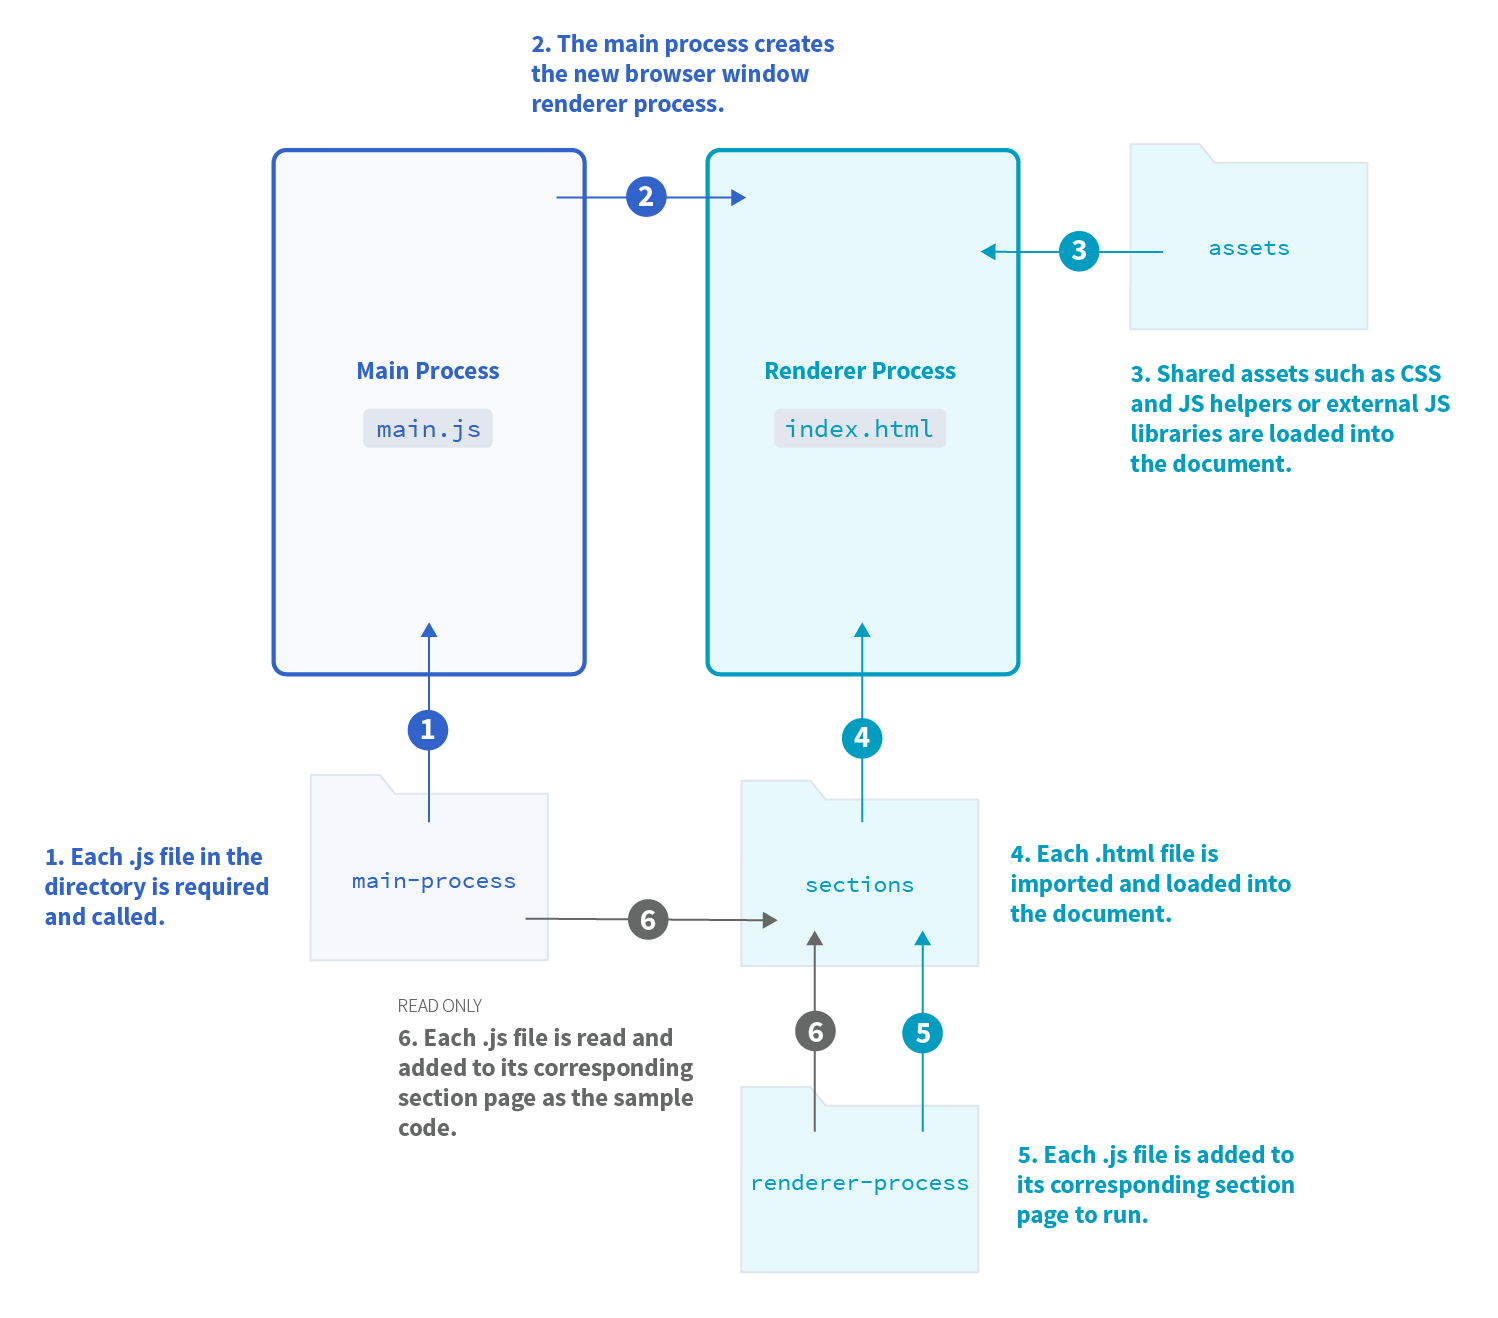
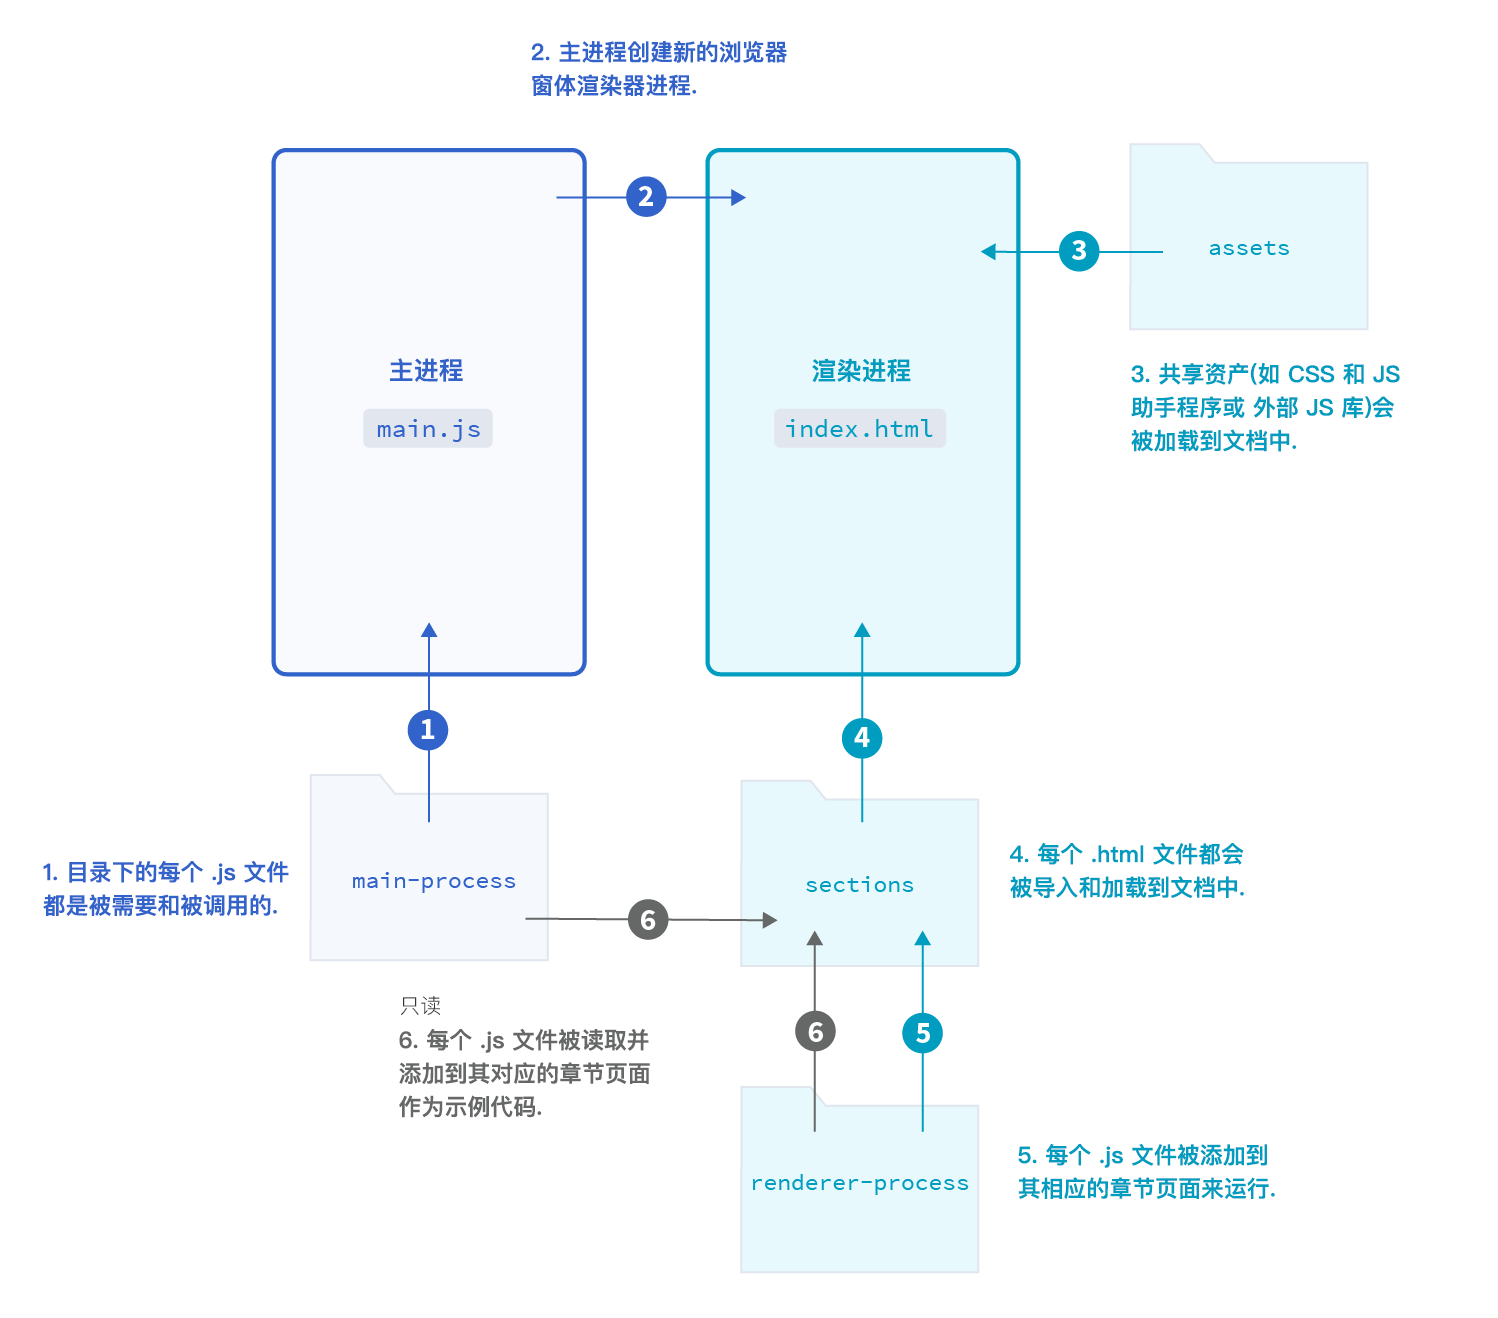
翻译部分文档
新增
导入 electron-api-demos 的 1.2.0 版本.
新增 CHANGELOG.md 文件用于记录更新内容.

更新
翻译 README.md 文件
翻译 docs.md 文件
翻译 assets\img\diagram.png 文件
翻译 assets\img\ui-terminology.png 文件

diff --git a/docs.md b/docs.md
@@ -1,112 +1,112 @@
-# Documentation
+# 文档
 
-This app has been developed to be a lightweight Electron app, demonstrating how to create a basic Electron app with a few exceptions that have been made for the sake of code organization in regards to the demos themselves.
+这个应用程序已被开发为一个轻量级 Electron 应用程序, 用一些用于演示本身相关的代码组织的例外来演示了如何创建一个基本的 Electron 应用程序.
 
-All of the sample code shown in the app _is the actual code used in the app_. These JavaScript bits have been pulled out into their own file and organized by process (main or renderer) and then by section (communication, menus, native UI, media, system, windows).
+应用程序中显示的所有示例代码都是 _应用程序中实际的使用代码_. 这些 JavaScript 块已被迁出到自己单独的文件中, 并按进程 (主进程 或 渲染器) 然后按章节 (通信，菜单，本地UI，媒体，系统，窗口) 进行组织.
 
-This was done for maintainability—code updates only have to be made in one place—and organization—it's easy to find the sample code you're looking for.
+为了便于维护, 只在一个地方和组织中进行代码更新. 这样可以很容易找到你要找的示例代码。
 
-All of the pages (or views) are separate `.html` files which are appended onto the `index.html` using [HTML imports](http://www.html5rocks.com/en/tutorials/webcomponents/imports/).
+所有的页面（或视图）都是单独的 `.html` 文件，它们使用 [HTML imports](http://www.html5rocks.com/en/tutorials/webcomponents/imports/) 的方式附加到 `index.html` 上。
 
-Are you looking to add a demo? Jump to the [add a new demo section](#add-a-section-or-demo).
+你想要增加一个示例吗? 跳转到 [增加一个新示例](#添加一个章节或示例) 章节.
 
-## Folder Structure
+## 文件夹结构
 
-![Diagram of App Structure and Operations](/assets/img/diagram.png)
+![应用程序结构和操作图](/assets/img/diagram.png)
 
 #### `assets`
-This directory contains assets for the app itself: CSS, fonts, images and shared JavaScript libraries or helpers.
+此个目录包含应用自身的资产: CSS, fonts, images 和 共享的 JavaScript 库或其他帮手等.
 
 #### `main-process`
-This directory contains sub folders for each demo section that requires JavaScript in the main process. This structure is mirrored in the `renderer-process` directory.
+此目录包含在主进程中需要使用 JavaScript 的每个示例部分的子文件夹. 这个结构镜像在 `renderer-process` 目录中.
 
-The `main.js` file, located in the root, takes each `.js` file in these directories and executes them.
+`main.js`文件位于根目录下, 每个 `.js` 文件都放在这些目录中执行.
 
 #### `renderer-process`
-This directory contains sub folders for each demo section that requires JavaScript in the renderer process. This structure is mirrored in the `main-process` directory.
+此目录包含在渲染器进程中需要使用 JavaScript 的每个示例部分的子文件夹. 这个结构镜像在`main-process`目录中.
 
-Each of the HTML page views requires the corresponding renderer-process `.js` files that it needs for its demo.
+每个 HTML 页面视图都需要其演示所需的相应的渲染器进程 `.js` 文件.
 
-Each page view reads the content of its relevant main and renderer process files and adds them to the page for the snippets.
+每个页面视图读取其相关主进程和渲染器进程文件的内容, 并将它们添加到代码段的页面.
 
 #### `sections`
-This directory contains sub folders for each demo section. These subfolders contain the HTML files for each of the demo pages. Each of these files is appended to `index.html`, located at the root.
+此目录包含每个示例部分的子文件夹. 这些子文件夹包含每个示例页面的 HTML 文件. 这些文件每个都附加到位于根目录的 `index.html`.
 
 #### `index.html`
-This is the main view in the app. It contains the sidebar with navigation and uses [HTML imports](http://www.html5rocks.com/en/tutorials/webcomponents/imports/) to append each section HTML page to the `body`.
+这是应用程序中的主视图. 它包含带导航的边栏, 并使用 [HTML imports](http://www.html5rocks.com/en/tutorials/webcomponents/imports/) 将每个部分的 HTML 页面附加到 `body`.
 
 #### `main.js`
-This file contains the lifecycle instructions for the app like how to start and quit, it is the app's main process. It grabs every `.js` file in the `main-process` directory and executes.
+此文件包含应用程序的生命周期说明, 比如如何开始和退出, 这是应用程序的主要过程. 它捕获 `main-process` 目录中的每个 `.js` 文件并执行.
 
-The `package.json` sets this file as the `main` file.
+在 `package.json` 中将这个文件设置为 `main` 文件.
 
 #### `package.json`
-This file is required when using `npm` and Electron.js. It contains details on the app: the author, dependencies, repository and points to `main.js` as the application's main process file.
+使用 `npm` 和 Electron.js 时需要此文件. 它包含应用程序的详细信息: 作者, 依赖项, 存储库, 并指向 `main.js` 作为应用程序的主进程文件.
 
 #### Docs
-The files: `CODE_OF_CONDUCT`, `README`, `docs` and `CONTRIBUTING` files make up the documentation for the project.
+文件: `CODE_OF_CONDUCT`, `README`, `docs` 和 `CONTRIBUTING` 文件构成了项目的文档.
 
-## UI Terminology
+## UI 术语
 
-![UI Terminology](/assets/img/ui-terminology.png)
+![UI 术语](/assets/img/ui-terminology.png)
 
-## CSS Naming Convention
+## CSS 命名约定
 
-Nothing too strict and used more as a guide:
+没有太严格的和更多的使用指导:
 
-- Styling elements directly should be avoided, but ok in some cases. Like `<p>` or `<code>`.
-- Elements that belong together are prefixed with their parent class. `.section`, `.section-header`, `.section-icon`.
-- States use `is-` prefix
-- Utilities use `u-` prefix
+- 应该避免直接使用样式元素, 但在某些情况下可以. 比如 `<p>` 或 `<code>`.
+- 属于一起的元素以其父类为前缀. `.section`, `.section-header`, `.section-icon`.
+- 状态使用 `is-` 前缀.
+- 实用程序使用 `u-` 前缀.
 
-## Add a Section or Demo
+## 添加一个章节或示例
 
-Here are tips for covering the bases when adding a new section or demo. General tip—for some of these just copy the line or file of a similar existing item to get started!
+下面是添加新章节或示例的基本技巧。 一般提示 - 对于其中一些只要复制一个类似的现有项目的行或文件开始就可以!
 
-### New Section
+### 新章节
 
-A whole new page with one or more demos.
+包含一个或多个示例的全新页面。
 
 #### index.html
 
-This page contains the sidebar list of sections as well as each section template that is imported with HTML imports.
+此页面包含侧边栏列表以及使用 HTML imports 导入的每个章节模板.
 
-- Add demo to sidebar in the appropriate category in `index.html`
- - update `id` i.e. `id="button-dialogs"`
- - update `data-section` i.e. `data-section="dialogs"`
-- Add demo template path to the import links in the `head` of `index.html`
- - i.e. `<link rel="import" href="sections/native-ui/dialogs.html">`
+- 添加示例到 `index.html` 侧边栏适当的类别中.
+ - 更新 `id`. 比如 `id="button-dialogs"`.
+ - 更新 `data-section`. 比如 `data-section="dialogs"`.
+- 将示例模板路径添加到 `index.html` 中 `head` 的 import 链接中.
+ - 比如 `<link rel="import" href="sections/native-ui/dialogs.html">`
 
 #### Template
 
-This template is added to the `index.html` in the app.
+此模板将添加到应用程序的 `index.html` 中.
 
-- In the `sections` directory, copy an existing template `html` file from the category you're adding a section to.
-- Update these tags `id`
- - i.e. `id="dialogs-section"`
-- Update all the text in the `header` tag with text relevant to your new section.
- - Remove the demos and pro-tips as needed.
+- 在 `sections` 目录中，从当前类别中复制一个现有模板的 `html` 文件到你添加的章节中.
+- 更新这些 `id` 标记
+ - 比如 `id="dialogs-section"`
+- 使用与你的新节相关的文本更新 `header` 标记中的所有文本.
+ - 根据需要删除示例和提示.
 
-### Demo
+### 示例
 
-Any code that you create for your demo should be added to the 'main-process' or 'renderer-process' directories depending on where it runs.
+你为示例创建的任何代码应根据运行的位置添加到 `main-process` 或 `renderer-process` 目录.
 
-All JavaScript files within the 'main-process' directory are run when the app starts but you'll link to the file so that it is displayed within your demo (see below).
+`main-process` 目录中的所有 JavaScript 文件在应用程序启动时运行, 但您将链接到该文件, 以便在示例中显示（见下文）.
 
-The renderer process code you add will be read and displayed within the demo and then required on the template page so that it runs in that process (see below).
+你添加的渲染器进程代码将被读取并显示在示例中, 然后在模板页面上显示, 以便在该过程中运行（见下文）.
 
-- Start by copying and pasting an existing `<div class="demo">` blocks from the template page.
-- Update the demo button `id`
- - i.e `<button class="demo-button" id="information-dialog">View Demo</button>`
-- If demo includes a response written to the DOM, update that `id`, otherwise delete:
- - i.e. `<span class="demo-response" id="info-selection"></span>`
-- Update the text describing your demo.
-- If you are displaying main or renderer process sample code, include or remove that markup accordingly.
- - Sample code is read and added to the DOM by adding the path to the code in the `data-path`
-   - i.e. `<pre><code data-path="renderer-process/native-ui/dialogs/information.js"></pre></code>`
- - Require your render process code in the script tag at the bottom of the template
-   - i.e  `require('./renderer-process/native-ui/dialogs/information')`
+- 首先从模板页面复制和粘贴现有的 `<div class="demo">` 块.
+- 更新示例按钮 `id`.
+	- 比如 `<button class="demo-button" id="information-dialog">View Demo</button>`
+- 如果示例包含写入到 DOM 的响应, 更新 `id`, 否则删除:
+	- 比如 `<span class="demo-response" id="info-selection"></span>`
+- 更新示例的文本描述.
+- 如果要显示 main 或 renderer 进程示例代码，请相应地包含或删除该标记.
+	- 通过将路径添加到 `data-path` 中的 `code`，可以读取示例代码并将其添加到 DOM.
+		- 比如 `<pre><code data-path="renderer-process/native-ui/dialogs/information.js"></pre></code>`
+	- 在模板底部的脚本标记中 `require` 您的渲染过程代码
+		- 比如 `require('./renderer-process/native-ui/dialogs/information')`
 
-#### Try it out
+#### 尝试一下
 
-At this point you should be able to run the app, `npm start`, and see you section and/or demo. :tada:
+到此为止, 你应该能够运行应用程序, `npm start`, 并看到你的章节或示例。 

diff --git a/README.md b/README.md
@@ -1,30 +1,31 @@
-# <img src="https://cloud.githubusercontent.com/assets/378023/15172388/b2b81950-1790-11e6-9a7c-ccc39912bb3a.png" width="60px" align="center" alt="Electron API Demos icon"> Electron API Demos
+# <img src="https://cloud.githubusercontent.com/assets/378023/15172388/b2b81950-1790-11e6-9a7c-ccc39912bb3a.png" width="60px" align="center" alt="Electron API 演示(中文版) icon"> Electron API 演示(中文版)
 
 [![Build Status](https://travis-ci.org/electron/electron-api-demos.svg?branch=master)](https://travis-ci.org/electron/electron-api-demos)
 [![JavaScript Standard Style](https://img.shields.io/badge/code%20style-standard-brightgreen.svg?style=flat)](http://standardjs.com)
 
-This is a desktop app that interactively and with sample code demonstrates core features of the [Electron](http://electron.atom.io) API. It's built with Electron, too, of course. This app works on Windows, macOS and Linux operating systems.
+> 此项目同步自 [electron](https://github.com/electron) 的 [electron-api-demos](https://github.com/electron/electron-api-demos) 项目. 除特殊情况, 将保持每两周一次的同步频率.
+> 
+> 更新日志请参阅: [CHANGELOG.md](CHANGELOG.md)
 
-Use this app to see what you can do with Electron and use the source code to learn how to create a basic Electron app.
+这是一个交互式的桌面应用程序, 通过示例代码演示了 [Electron](http://electron.atom.io) API 的核心特性. 当然, 它也是由 Electron 构建的. 此应用程序适用于 Windows, macOS 和 Linux 操作系统.
+
+通过这个应用程序, 你可以了解用 Electron 能够做什么并使用源代码来学习如何创建一个基本的 Electron 应用程序.
 
 ![Electron API Demos Screenshots](https://cloud.githubusercontent.com/assets/378023/15016148/ae06cc80-124a-11e6-80dd-076d83e492f6.png)
 
 ---
 
-This project adheres to the Contributor Covenant [code of conduct](CODE_OF_CONDUCT.md).
-By participating, you are expected to uphold this code. Please report unacceptable
-behavior to electron@github.com.
+此项目遵守“捐助者公约”[行为守则](CODE_OF_CONDUCT.md). 在参与过程中, 您需要遵守此守则. 如遇到不可接受的行为, 请向 electron@github.com 举报。
 
-Follow [@ElectronJS](https://twitter.com/electronjs) on Twitter for important
-announcements. Visit the [electron website](http://electron.atom.io).
+在 Twitter 上订阅 [@ElectronJS](https://twitter.com/electronjs) 来获取重要公告. 或访问 [electron website](http://electron.atom.io) 网站.
 
-## Using
+## 使用
 
-You can [download the latest release](https://github.com/electron/electron-api-demos/releases) for your operating system or build it yourself (see below).
+你可以下载针对你当前系统的最新 [发行版本](https://github.com/electron/electron-api-demos/releases) 或是自己构建一个(具体看下面).
 
-## Building
+## 构建
 
-You'll need [Node.js](https://nodejs.org) installed on your computer in order to build this app.
+在构建此应用之前, 你需要安装 [Node.js](https://nodejs.org).
 
 ```bash
 $ git clone https://github.com/electron/electron-api-demos
@@ -33,18 +34,14 @@ $ npm install
 $ npm start
 ```
 
-If you don't wish to clone, you can [download the source code](https://github.com/electron/electron-api-demos/archive/master.zip).
+如果你不想通过克隆的方式, 你可以 [下载源码](https://github.com/electron/electron-api-demos/archive/master.zip).
 
-For easier developing you can launch the app in fullscreen with DevTools open:
+为了便于开发, 你可以打开 DevTools 以全屏的方式运行程序:
 
 ```bash
 $ npm run dev
 ```
 
-## Extending
+## 扩展
 
- [Read the docs](docs.md) to learn more about how this app is built or how to [add a new demo](docs.md#add-a-section-or-demo).
-
-## Translations
-
-A Chinese translation of this app is available at [`fuchao2012/zh-cn-Electron-API-Demos`](https://github.com/fuchao2012/zh-cn-Electron-API-Demos). Note: this version is maintained by outside contributors and may not always be in sync with this version.
+通过 [阅读文档](docs.md) 来详细了解如何构建此应用或如何 [添加一个新演示](docs.md#add-a-section-or-demo).

diff --git a/CHANGELOG.md b/CHANGELOG.md
@@ -1,0 +1,13 @@
+# 更新记录
+
+## 2017-02-21
+
+### 新增
+* 导入 electron-api-demos 的 `1.2.0` 版本.
+* 新增 	`CHANGELOG.md` 文件用于记录更新内容.
+
+### 更新
+* 翻译 `README.md` 文件
+* 翻译 `docs.md` 文件
+* 翻译 `assets\img\diagram.png` 文件
+* 翻译 `assets\img\ui-terminology.png` 文件
